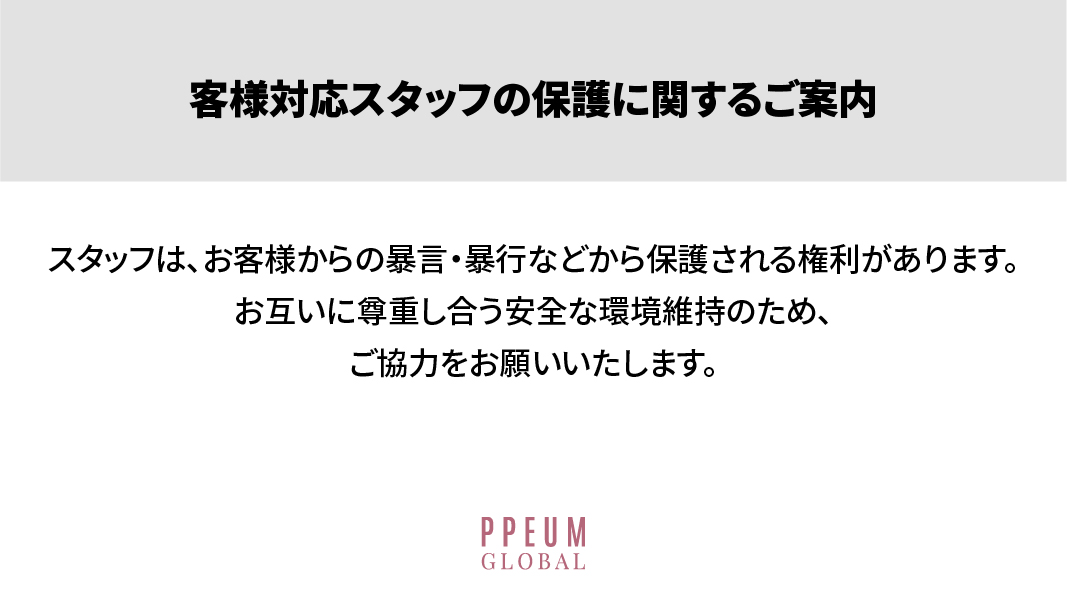
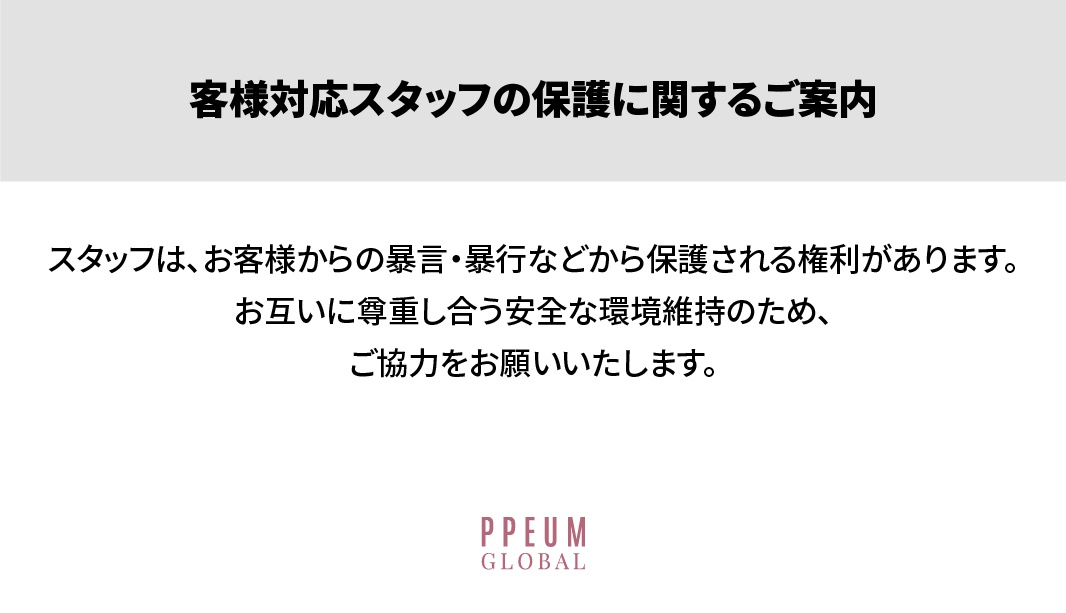
Pin notice image to top and extend gray band full width

diff --git a/style.css b/style.css
@@ -12,13 +12,13 @@ body {
   font-family: "Noto Sans", sans-serif;
 }
 
-/* 안내문 이미지: 원본 크기(1066px)까지만, 화면이 좁으면 그 너비에 맞춰 축소, 화면 가운데 */
+/* 안내문 이미지: 원본 크기(1066×613)까지만, 좁은 화면은 그 너비로 축소해 맨 위에 붙임.
+   이미지 속 회색 띠(위 181px)를 화면 양옆 끝까지 이어서 여백이 떠 보이지 않게 함 */
 .poster {
+  --w: min(100vw, 1066px);
   min-height: 100vh;
   min-height: 100svh;
-  display: flex;
-  align-items: center;
-  justify-content: center;
+  background: linear-gradient(var(--band) calc(var(--w) * 181 / 1066), var(--bg) 0);
 }
 
 .poster img {
@@ -26,6 +26,7 @@ body {
   width: 100%;
   max-width: 1066px;
   height: auto;
+  margin: 0 auto;
 }
 
 /* 첫 화면: 언어 선택 */
